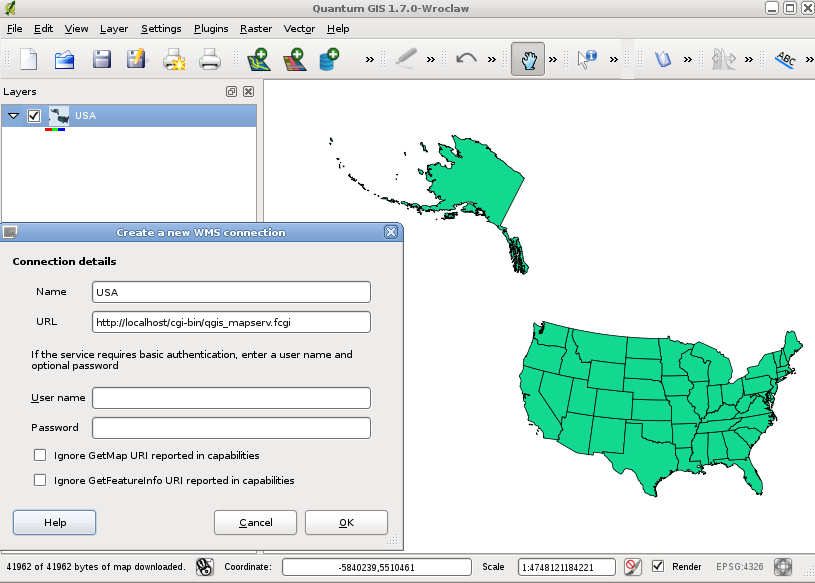
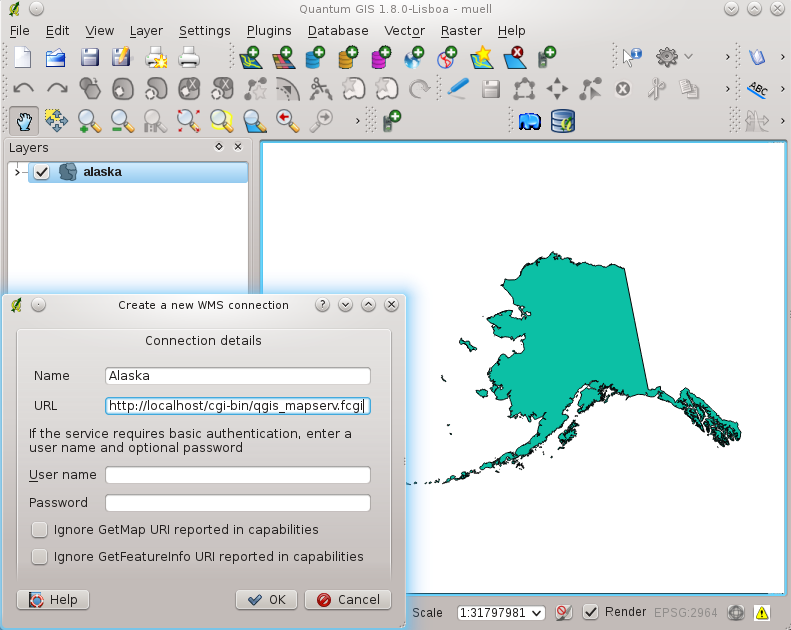
update ogc and vector properties chapters

diff --git a/source/docs/user_manual/working_with_ogc/ogc_server_support.rst b/source/docs/user_manual/working_with_ogc/ogc_server_support.rst
@@ -1,6 +1,4 @@
-.. comment out this disclaimer (by putting '.. ' in front of it) if file is uptodate with release
-
-|updatedisclaimer|
+.. comment out this Section (by putting '|updatedisclaimer|' on top) if file is not uptodate with release
 
 .. index:: QGIS_Server, FastCGI, CGI, Common_Gateway_Interface
 
@@ -68,9 +66,8 @@ the message 'It works!'.
 
 Now we test the qgis server installation. The :file:`qgis_mapserv.fcgi` is available at 
 ``/usr/lib/cgi-bin/qgis_mapserv.fcgi`` and provides a standard wms that shows the 
-state boundaries of the Unites States of America figure_server_1_. Add 
-the WMS with the URL ``http://localhost/cgi-bin/qgis_mapserv.fcgi`` as described 
-in :ref:`ogc-wms-servers`.
+state boundaries of Alaska. Add the WMS with the URL 
+``http://localhost/cgi-bin/qgis_mapserv.fcgi`` as described in :ref:`ogc-wms-servers`.
 
 .. _figure_server_1:
 
@@ -87,22 +84,24 @@ in :ref:`ogc-wms-servers`.
 
 .. _`Creating a WMS from a QGIS project`:
 
-Creating a WMS from a QGIS project
------------------------------------
+Creating a WMS/WFS from a QGIS project
+--------------------------------------
 
-To provide a new qgis wms server we have to create a qgis project file with some 
-data. Here we use the 'regions' and the 'aiport' shapefiles from the 
-qgis_sample_dataset. 
+To provide a new qgis wms/wfs server we have to create a qgis project file with some 
+data. Here we use the 'alaska' shapefile from the qgis_sample_dataset. Define the 
+colors and styles of the layers in QGIS and define the project CRS, if not already 
+done.
 
-First load the shapefiles and define the colors and styles of the layers in 
-QGIS and define the project CRS, if not already done. In a next step define the 
-fields 'Service Capabilities', 'Coordinate System Restrictions' and 'Advertised 
-Extend' under :menuselection:`Settings --> Project Properties --> WMS Server` 
-and define the fields 'Service Capabilities', 'Coordinate System Restrictions' 
-and 'Advertised Extend'. Additionally you can enable the checkbox 
-|checkbox| :guilabel:`Add WKT geometry to feature into response` to make the layers 
-queryable (see figure_server_2_). Now save the session in a 
-project file :file:`alaska\_airports.qgs`. 
+Then open the ``OWS Server`` tab in the menu :menuselection:`Settings --> 
+Project Properties` and define the general fields under 'Service Capabilities'.
+
+For ``WMS Capabilities`` define 'Coordinate System Restrictions' and 'Advertised Extend'. 
+Additionally you can enable the checkbox |checkbox| :guilabel:`Add WKT geometry to 
+feature into response` to make the layers queryable and add a Maximum width and height that 
+can be requested.
+
+For ``WFS Capabilities`` you only need to select the layers that you want to provide 
+as WFS. Now save the session in a project file :file:`alaska.qgs`. 
 
 .. _figure_server_2:
 
@@ -110,19 +109,19 @@ project file :file:`alaska\_airports.qgs`.
 
    **Figure Server 2:**
 
-.. figure:: /static/user_manual/working_with_ogc/wms_server_definition.png
+.. figure:: /static/user_manual/working_with_ogc/ows_server_definition.png
    :align: center
    :width: 40 em
 
-   Definitions for a qgis project WMS server (KDE)
+   Definitions for a qgis project WMS/WFS server (KDE)
 
-To provide the project as a WMS, we create a new folder ``/usr/lib/cgi-bin/project`` 
-with admin privileges and add the project file :file:`alaska\_airports.qgs` and a copy 
-of the :file:`qgis\_mapserv.fcgi` file - that's all.
+To provide the project as a WMS/WFS, we create a new folder ``/usr/lib/cgi-bin/project`` 
+with admin privileges and add the project file :file:`alaska.qgs` and a copy of the 
+:file:`qgis\_mapserv.fcgi` file - that's all.
 
 Now we test our project WMS, add the WMS with the URL 
 ``http://localhost/cgi-bin/project/qgis_mapserv.fcgi`` as described in 
-:ref:`Creating a WMS from a QGIS project` to QGIS and load the WMS, see figure_server_3_.
+:ref:`ogc-wms-layers` to QGIS and load the WMS.
 
 .. _figure_server_3:
 
@@ -135,4 +134,7 @@ Now we test our project WMS, add the WMS with the URL
    :width: 40 em
 
    QGIS WMS Server based on a qgis project (KDE)
+
+Also test the project WFS and load the WFS with the URL ``http://localhost/cgi-bin/project/qgis_mapserv.fcgi`` 
+as described in section :ref:`ogc-wfs`. 
 

diff --git a/source/docs/user_manual/working_with_ogc/ogc_client_support.rst b/source/docs/user_manual/working_with_ogc/ogc_client_support.rst
@@ -1,6 +1,4 @@
-.. comment out this disclaimer (by putting '.. ' in front of it) if file is uptodate with release
-
-|updatedisclaimer|
+.. comment out this Section (by putting '|updatedisclaimer|' on top) if file is not uptodate with release
 
 .. _working_with_ogc:
 
@@ -148,7 +146,6 @@ for future QGIS sessions.
 Loading WMS Layers
 -------------------
 
-
 Once you have successfully filled in your parameters you can select the
 **[Connect]** button to retrieve the capabilities of the selected
 server. This includes the Image encoding, Layers, Layer Styles and
@@ -201,8 +198,8 @@ The Options field provides a text-field where you can add a :guilabel:`Layer nam
 for the WMS-layer. This name will be presented in the legend after loading
 the layer.
 
-Below the layer name you find the :guilabel:`Tile size`, which makes it possible to
-produce rasters with a high resolution for e.g. printing purposes.
+Below the layer name you can define :guilabel:`Tile size`, if you want to set tile 
+sizes (eg. 256x256) to split up the WMS request into multiple requests.
 
 The :guilabel:`Feature limit for GetFeatureInfo` defines what features from
 the server to query.

diff --git a/source/docs/user_manual/working_with_ogc/index.rst b/source/docs/user_manual/working_with_ogc/index.rst
@@ -1,6 +1,4 @@
-.. comment out this disclaimer (by putting '.. ' in front of it) if file is uptodate with release
-
-|updatedisclaimer|
+.. comment out this Section (by putting '|updatedisclaimer|' on top) if file is not uptodate with release
 
 .. _sec_ogc:
 
